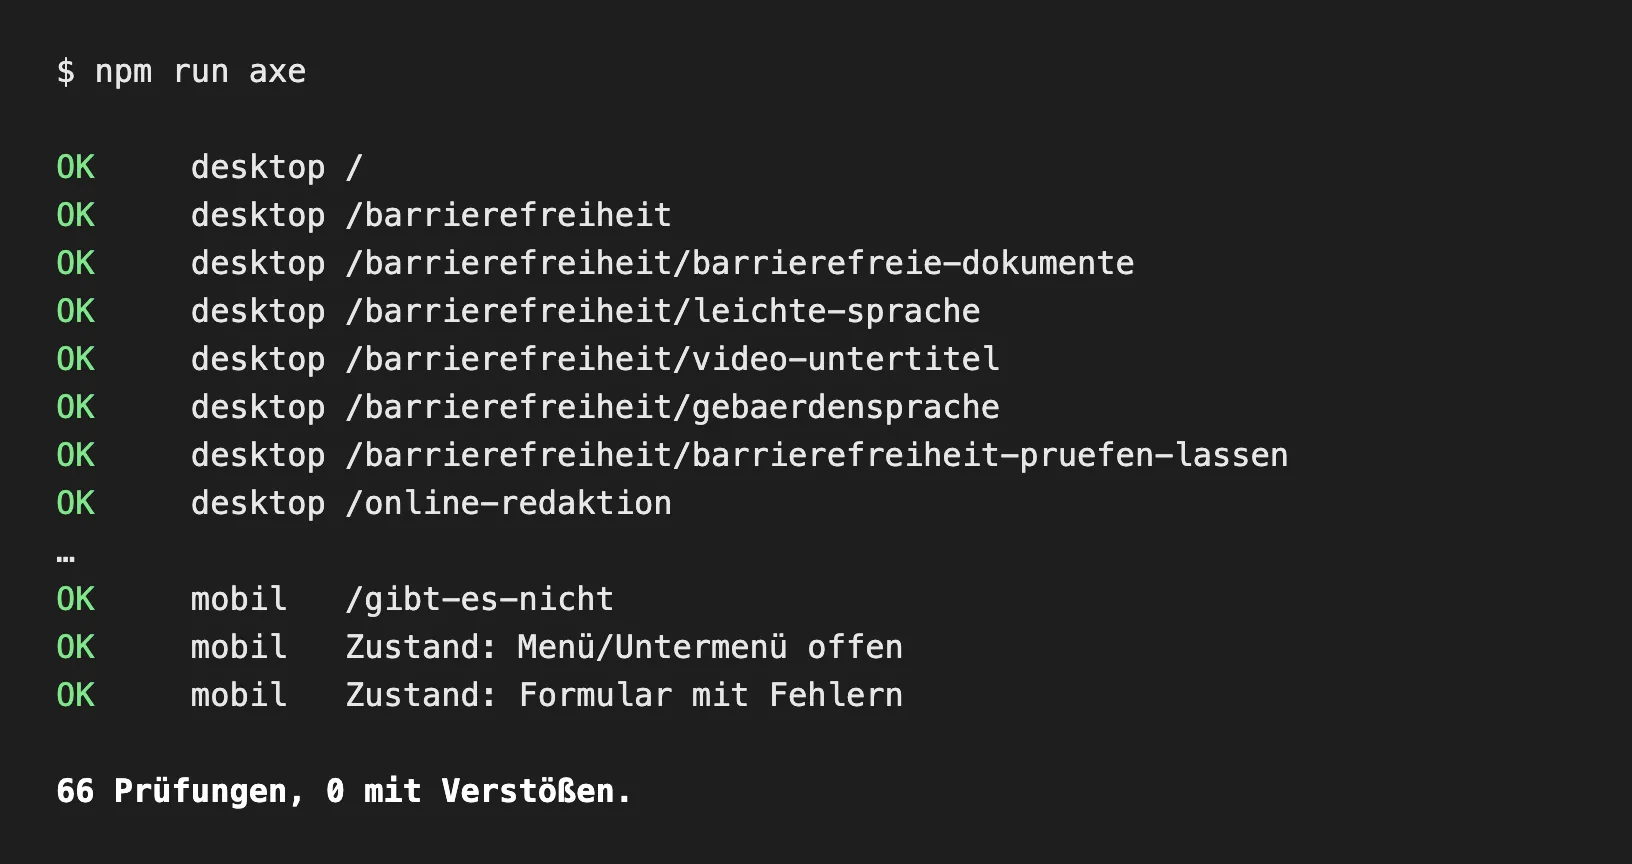
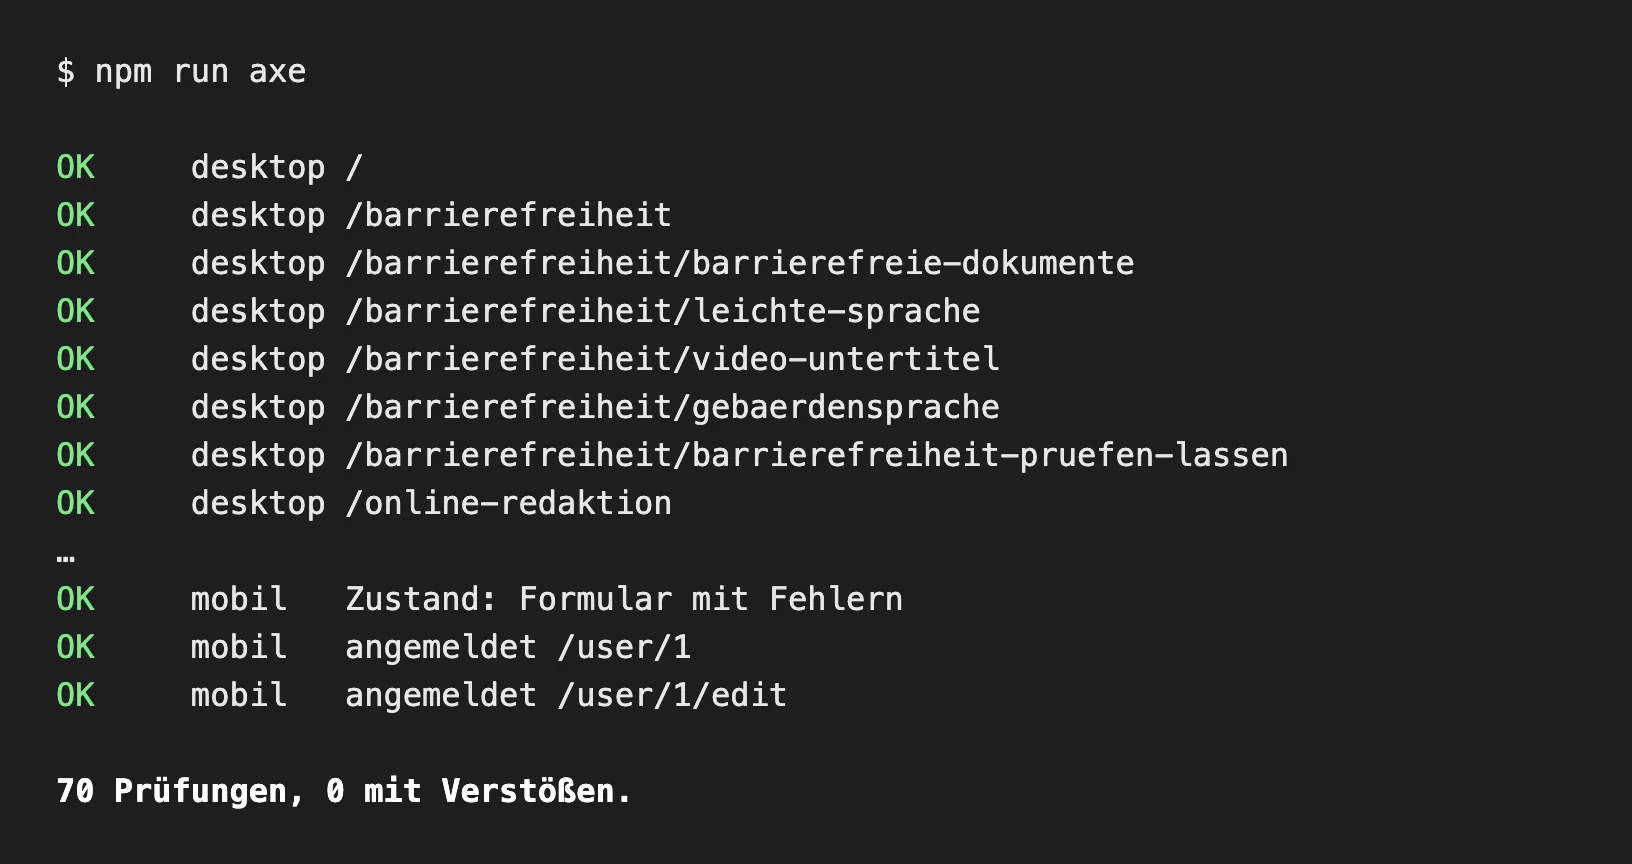
Benutzerprofil: "Mitglied seit" ohne Überschrift
Der Kern gibt die Bezeichnung als <h4> aus (Sprung H1 → H4, gemeldet von
Editoria11y). user.html.twig zeigt sie stattdessen als <dl>; den Wert
setzt LdtMusterlandHooks::preprocessUser(). axe-Test prüft zusätzlich
/user/1 und /user/1/edit angemeldet (Login über drush uli); README-
Screenshot des axe-Ergebnisses aktualisiert (70 Prüfungen).

Changed region(s): [[0.2188, 0.6562, 0.5625, 0.8438], [0.0312, 0.9062, 0.0625, 0.9375]]

diff --git a/web/themes/custom/ldt_musterland/css/components/ldt-content.css b/web/themes/custom/ldt_musterland/css/components/ldt-content.css
@@ -119,3 +119,11 @@
   font-weight: 700;
   text-decoration-thickness: 3px;
 }
+
+/* Benutzerprofil: "Mitglied seit" als Beschreibungsliste (user.html.twig) */
+.profile__angaben dt {
+  font-weight: 700;
+}
+.profile__angaben dd {
+  margin: 0 0 var(--space-3);
+}

diff --git a/web/themes/custom/ldt_musterland/src/Hook/LdtMusterlandHooks.php b/web/themes/custom/ldt_musterland/src/Hook/LdtMusterlandHooks.php
@@ -30,6 +30,19 @@ class LdtMusterlandHooks {
   }
 
   /**
+   * Implements hook_preprocess_user().
+   *
+   * "Mitglied seit" ohne Überschrift (Kern: <h4>), siehe user.html.twig.
+   */
+  #[Hook('preprocess_user')]
+  public function preprocessUser(array &$variables): void {
+    if (isset($variables['elements']['member_for'])) {
+      $variables['mitglied_seit'] = \Drupal::service('date.formatter')
+        ->formatTimeDiffSince($variables['elements']['#user']->getCreatedTime());
+    }
+  }
+
+  /**
    * Implements hook_preprocess_menu().
    *
    * Aktuelle Adresse für aria-current="page" in den Menü-Templates.

diff --git a/README.md b/README.md
@@ -29,7 +29,7 @@ Barrierefreiheit. Ein Hinweis-Balken auf jeder Seite macht klar, dass es keine e
 
 <img src="docs/styleguide.webp" width="640" alt="Seite „Gestaltungsrichtlinien“ (/styleguide): Inhaltsverzeichnis mit Farben und Kontrasten, Typografie, Links und Buttons, Formularfeldern, Karten, Hinweisboxen, Braille-Band und Bildregeln, darunter die Farbwerte des Themes als Farbfelder mit Namen und Hex-Code.">
 
-<img src="docs/axe-ergebnis.webp" width="560" alt="Ausschnitt der Testausgabe von „npm run axe“: Jede Seite steht mit „OK“ für Desktop und mobil, dazu die Zustände „Menü offen“ und „Formular mit Fehlern“. Ergebnis: 66 Prüfungen, 0 mit Verstößen.">
+<img src="docs/axe-ergebnis.webp" width="560" alt="Ausschnitt der Testausgabe von „npm run axe“: Jede Seite steht mit „OK“ für Desktop und mobil, dazu die Zustände „Menü offen“ und „Formular mit Fehlern“ sowie das Benutzerprofil im angemeldeten Zustand. Ergebnis: 70 Prüfungen, 0 mit Verstößen.">
 
 ## Was man sich ansehen sollte
 
@@ -349,7 +349,7 @@ Voraussetzung: Node.js, Google Chrome, laufende DDEV-Umgebung.
 ```bash
 cd tests/a11y
 npm install          # einmalig
-npm run axe          # axe-core: alle Seiten, Desktop + 375 px, Menü offen, Formularfehler
+npm run axe          # axe-core: alle Seiten, Desktop + 375 px, Menü offen, Formularfehler, angemeldet /user/1
 npm run tastatur     # Skip-Link, Tab-Reihenfolge, Fokus sichtbar, Menüs, Formular
 npm run reflow       # 320 px Breite (= 400 % Zoom) ohne waagerechtes Scrollen
 npm run meta         # Meta-Beschreibung: höchstens 160 Zeichen, endet auf den Musterseiten-Zusatz; keine doppelten <title>
